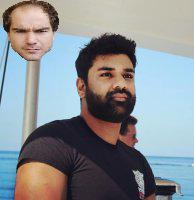
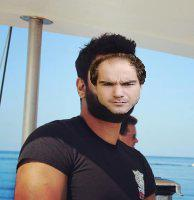
face positioning baby

Changed region(s): [[0.0, 0.0, 0.3093, 0.33], [0.4639, 0.24, 0.7732, 0.57]]

diff --git a/test1.py b/test1.py
@@ -11,6 +11,7 @@ emotion_dict= {'Angry': 0, 'Sad': 5, 'Neutral': 4, 'Disgust': 1, 'Surprise': 6, 
 
 
 size = 10
+place = (0,0)
 
 
 # Load the jpg file into a numpy array
@@ -34,6 +35,7 @@ for face_location in face_locations:
     pil_image = Image.fromarray(face_image)
     # pil_image.show()
     size = bottom - top
+    place = (left, top)
 
 
 
@@ -58,6 +60,6 @@ copyIm = Image.open('./face_and_emotion_detection2/test_images/rajeev.jpg').copy
 
 fml = im1.resize((size, size))
 
-copyIm.paste(fml, (0,0), fml)
+copyIm.paste(fml, place, fml)
 copyIm.save('./face_and_emotion_detection2/test_images/rajeevjoseph.jpg')
 copyIm.show()
